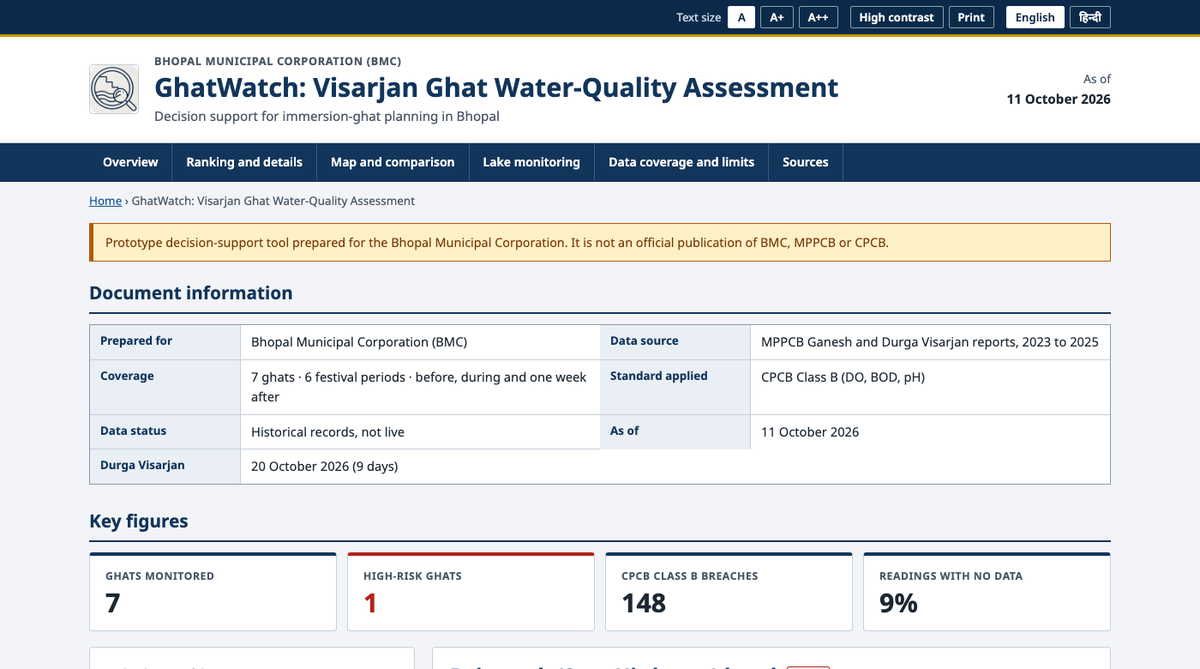
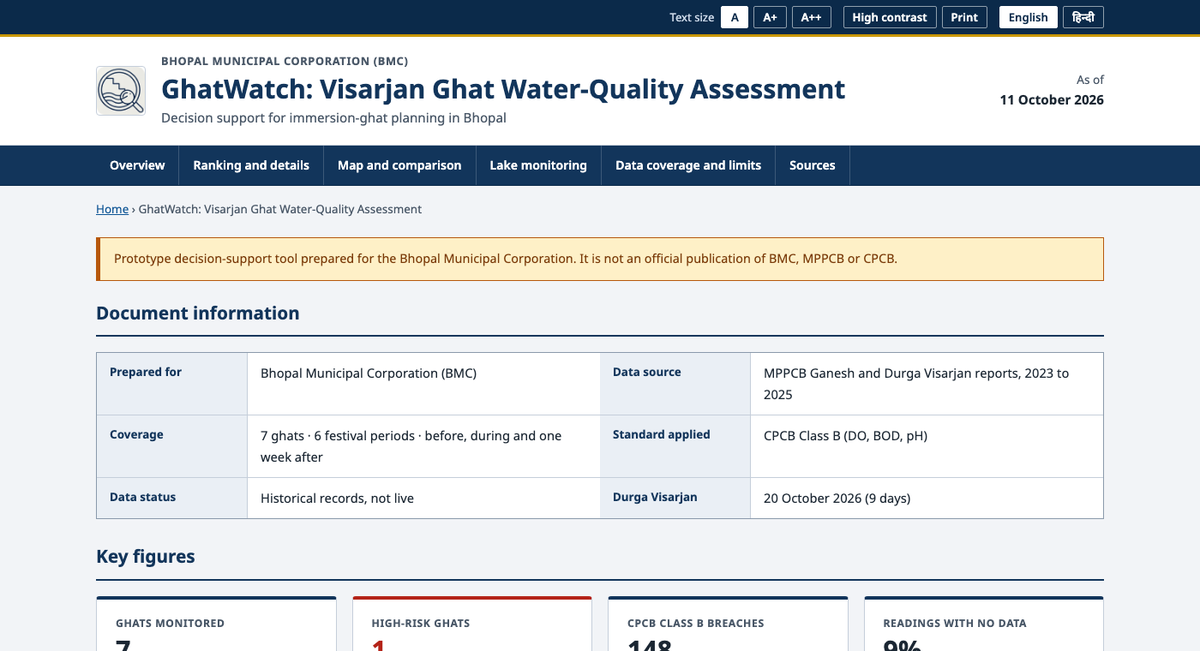
Simpler, airier layout; credited reference photos of the ghats' lakes
- Reference photo of the Upper or Lower Lake for ghats on them (Wikimedia Commons, CC BY-SA 4.0,
  resized, credited with source and licence links), captioned as a photo of the lake and not of the
  ghat; ghats on other water bodies show a plain note. A Commons file titled "Shahpura" is Shahpura in
  Rajasthan, so it was not used.
- Simpler: shorter ranking lines, the full lake table and the weekly update folded away (opened by the
  navigation link), one date instead of two in the header; more generous spacing throughout.
- README screenshots re-captured (15) and the README updated with the photos and credits.

diff --git a/public/app.js b/public/app.js
@@ -69,7 +69,6 @@ function siteHeader() {
         [t("hdr.coverage"), t("hdr.coverage.v", { n: OVERVIEW.metrics.ghats, p: periods.length })],
         [t("hdr.standard"), t("hdr.standard.v")],
         [t("hdr.status"), mock ? t("hdr.strip.demo").split(":")[0] : t("hdr.status.v")],
-        [t("hdr.asof"), asOf],
         ...(OVERVIEW.days_left != null ? [[t("hdr.event"), OVERVIEW.days_left === 0 ? t("hdr.event.today") : OVERVIEW.days_left === 1 ? t("hdr.event.one") : t("hdr.event.v", { n: OVERVIEW.days_left })]] : []),
     ].map(([k, v]) => `<div><dt>${esc(k)}</dt><dd>${esc(v)}</dd></div>`).join("");
     return `<a class="skip" href="#main">${esc(t("gov.skip"))}</a>
@@ -203,6 +202,18 @@ function briefCard(d) {
         <p class="note" style="margin-top:8px">${esc(t("b.note"))}</p></div>`;
 }
 
+/** Reference photo of the ghat's lake, with its licence credit; or a plain note when no openly licensed photo exists. */
+function photoCard(d, row) {
+    const ph = d.photo;
+    if (!ph) return `<p class="note photo-none">${esc(t("photo.none"))}</p>`;
+    const body = state.lang === "hi" ? ph.body_hi : ph.body_en;
+    return `<figure class="card photo"><img src="${esc(ph.image)}" alt="${esc(body)}" width="1200" height="700" loading="lazy">
+        <figcaption><p>${esc(t("photo.note", { body }))}</p>
+        <p class="credit">${esc(t("photo.credit", { author: ph.author, license: ph.license }))} ·
+            <a href="${esc(ph.source_url)}" target="_blank" rel="noopener noreferrer">${esc(t("photo.src"))}</a> ·
+            <a href="${esc(ph.license_url)}" target="_blank" rel="noopener noreferrer">${esc(t("photo.lic"))}</a></p></figcaption></figure>`;
+}
+
 function detail(d) {
     const s = d.summary, lim = OVERVIEW.limits, brief = d.brief[state.lang], row = rowById(d.id);
     const place = [d.water_body, d.confidence && d.confidence !== "high" ? `match: ${d.confidence}` : ""].filter(Boolean).join(" · ");
@@ -213,6 +224,7 @@ function detail(d) {
             ${s.no_data ? `<div class="callout">${md(t("d.missing", { n: s.no_data, total: s.readings }))}</div>` : ""}
             ${s.floor_applied ? `<div class="callout info">${esc(t("d.floor", { m: OVERVIEW.weights.medium_at }))}</div>` : ""}</div>
             ${ring(s.risk_score, s.risk_level)}</div>
+        ${photoCard(d, row)}
         ${latestTiles(d)}
         ${lakesCard(d)}
         <div class="two" style="margin-top:18px"><div class="card why" style="margin:0"><h3>${esc(t("sec.why"))}</h3>${list(brief.findings)}</div>
@@ -278,9 +290,9 @@ function lakeDataTable() {
 function lakeDataSection() {
     if (!OVERVIEW.lakes.stations.length) return "";
     const tabs = ["do", "ph", "bod3"].map((p) => `<button class="chip" data-lakeparam="${p}" aria-pressed="${state.lakeParam === p}">${esc(t("lakedata." + p))}</button>`).join("");
-    return `<div class="card" id="lakes" style="margin-top:28px"><h2>${esc(t("sec.lakedata"))}</h2><p class="note" style="margin:4px 0 6px">${esc(t("lakedata.help"))}</p>
+    return `<details class="fold" id="lakes"><summary>${esc(t("sec.lakedata"))}</summary><div><p class="note" style="margin:0 0 8px">${esc(t("lakedata.help"))}</p>
         <div class="chips" role="group">${tabs}</div><div id="lakedata">${lakeDataTable()}</div>
-        <p class="note" style="margin-top:8px">${esc(t("lakes.bodnote"))}</p></div>`;
+        <p class="note" style="margin-top:10px">${esc(t("lakes.bodnote"))}</p></div></details>`;
 }
 
 function weeklySection() {
@@ -288,10 +300,9 @@ function weeklySection() {
     const status = a.blocked_demo ? t("weekly.demo") : a.enabled && a.channels.length ? t("weekly.on", { ch: a.channels.join(", ") }) : t("weekly.off");
     const box = (code, title) => `<div class="caption-box" lang="${code}"><div class="cap-head"><b>${title}</b>
         <button class="copy" data-copy="${code}">${esc(t("weekly.copy"))}</button></div><pre>${esc(w["caption_" + code])}</pre></div>`;
-    return `<div class="card" style="margin-top:28px"><h2>${esc(t("weekly.title"))}</h2>
-        <p class="note" style="margin:4px 0 12px">${esc(t("weekly.lede"))}</p>
+    return `<details class="fold" id="weekly"><summary>${esc(t("weekly.fold"))}</summary><div><p class="note" style="margin:0 0 12px">${esc(t("weekly.lede"))}</p>
         <div class="two" style="margin:0">${box("en", "English")}${box("hi", "हिन्दी")}</div>
-        <p class="note" style="margin-top:10px"><b>${esc(status)}</b></p></div>`;
+        <p class="note" style="margin-top:12px"><b>${esc(status)}</b></p></div></details>`;
 }
 
 function sourcesSection() {
@@ -454,6 +465,7 @@ function render() {
             <a href="https://github.com/priyanxs/ghatwatch" target="_blank" rel="noopener noreferrer">${esc(t("foot.code"))}</a><a href="#top">${esc(t("foot.top"))}</a></div>
             <p>${esc(t("foot.updated", { d: new Date(OVERVIEW.as_of + "T00:00:00").toLocaleDateString(state.lang === "hi" ? "hi-IN" : "en-IN", { day: "numeric", month: "long", year: "numeric" }) }))}</p></div></footer>`;
     document.querySelectorAll("[data-lang]").forEach((b) => (b.onclick = () => { state.lang = b.dataset.lang; localStorage.setItem("gw-lang", state.lang); render(); }));
+    document.querySelectorAll("[data-nav]").forEach((a) => (a.onclick = () => { const el = document.getElementById(a.dataset.nav); if (el && el.tagName === "DETAILS") el.open = true; }));
     document.querySelectorAll("[data-size]").forEach((b) => (b.onclick = () => { state.size = b.dataset.size; localStorage.setItem("gw-size", state.size); applyPrefs(); render(); }));
     $("#hc-toggle").onclick = () => { state.contrast = !state.contrast; localStorage.setItem("gw-contrast", state.contrast ? "1" : "0"); applyPrefs(); render(); };
     $("#print-btn").onclick = () => window.print();

diff --git a/public/style.css b/public/style.css
@@ -227,3 +227,28 @@ footer.site a { color: #fff; font-size: .86rem; }
     .docinfo > div:last-child:nth-child(odd) { grid-column: 1 / -1; border-bottom: 0; }
 }
 body.hc .nav a { color: #fff; } body.hc .nav a:hover, body.hc .nav a:focus-visible { background: #fff; color: #000; }
+
+/* ---------------------------------------------------------------- simpler, airier layout */
+body { line-height: 1.7; }
+.wrap { padding: 0 32px; }
+.card { padding: 24px 28px; } .card + .card { margin-top: 24px; }
+.section-title, .heading { margin: 48px 0 18px; padding-bottom: 8px; }
+.grid { gap: 32px; margin-top: 32px; } .two { gap: 24px; } .stats { gap: 18px; } .stat { padding: 18px 22px; }
+.ghats { gap: 12px; } .ghat { padding: 15px 17px; row-gap: 6px; } .ghat .detail { margin-top: 2px; }
+.chips { margin: 16px 0 14px; } .needs { margin-top: 16px; } .callout { margin-top: 18px; padding: 13px 17px; }
+.tiles { gap: 14px; margin-top: 16px; } .tile { padding: 13px 15px; } .charts { gap: 18px; margin-top: 10px; } .briefs { gap: 22px; margin-top: 16px; }
+.brief { padding: 6px 20px 16px; } .card ul { padding-left: 22px; } .card li { margin: 8px 0; }
+th, td { padding: 10px 13px; } .docinfo dt, .docinfo dd { padding: 11px 15px; } .docinfo { margin-top: 16px; }
+.top-card { gap: 24px; } .verdict { margin-top: 12px; } .rankline { margin-top: 6px; }
+.proto { margin-top: 16px; padding: 12px 16px; } .crumbs { padding-top: 16px; padding-bottom: 6px; }
+details { margin-top: 18px; } summary { padding: 15px 20px; } details > div { padding: 2px 20px 20px; }
+footer.site { margin-top: 56px; } footer.site .wrap { padding-top: 30px; padding-bottom: 34px; }
+.fold { background: var(--card); border: 1px solid var(--line); border-radius: 4px; margin-top: 28px; }
+.fold > summary { font-size: 1.05rem; padding: 18px 24px; } .fold > div { padding: 4px 24px 24px; }
+.card.photo { padding: 0; overflow: hidden; margin: 24px 0 0; }
+.photo img { display: block; width: 100%; height: auto; max-height: 340px; object-fit: cover; background: var(--soft); }
+.photo figcaption { padding: 14px 22px 16px; font-size: .84rem; color: var(--muted); border-top: 1px solid var(--line); }
+.photo figcaption p { margin: 0; } .photo .credit { margin-top: 6px; font-size: .78rem; }
+.photo-none { margin: 18px 2px 0; font-style: italic; }
+@media (max-width: 720px) { .wrap { padding: 0 16px; } .card { padding: 20px 18px; } .section-title, .heading { margin-top: 40px; } .fold > summary { padding: 16px 18px; } .fold > div { padding: 4px 18px 20px; } }
+@media print { .fold > div, details > div { display: block; } .photo img { max-height: 220px; } }

diff --git a/utils/i18n.py b/utils/i18n.py
@@ -104,8 +104,6 @@ STRINGS: dict[str, dict[str, str]] = {
                  "hi": "यह घाट लोड नहीं हो सका ({e})। कृपया पुनः प्रयास करें।"},
     "m.breaches.help": {"en": "DO below 5 mg/L, BOD above 3 mg/L or pH outside 6.5 to 8.5, all periods.",
                         "hi": "सभी अवधियों में DO 5 mg/L से कम, BOD 3 mg/L से अधिक या pH 6.5 से 8.5 के बाहर।"},
-    "r.line": {"en": "DO below limit {do} of {dt} · BOD above limit {bod} of {bt} · pH out of range {ph} of {pt} · {gap}% data missing",
-               "hi": "DO सीमा से कम {do}/{dt} · BOD सीमा से अधिक {bod}/{bt} · pH सीमा के बाहर {ph}/{pt} · {gap}% डेटा अनुपलब्ध"},
     "d.limit": {"en": "CPCB Class B limit check  ·  DO ≥ {do} mg/L  ·  BOD ≤ {bod} mg/L  ·  pH {phmin} to {phmax}",
                 "hi": "CPCB श्रेणी-B सीमा जाँच  ·  DO ≥ {do} mg/L  ·  BOD ≤ {bod} mg/L  ·  pH {phmin} से {phmax}"},
     "d.how.body": {
@@ -229,6 +227,16 @@ STRINGS: dict[str, dict[str, str]] = {
     "foot.code": {"en": "Source code (MIT licence)", "hi": "स्रोत कोड (MIT लाइसेंस)"},
     "foot.top": {"en": "Back to top", "hi": "ऊपर जाएँ"},
     "loading": {"en": "Loading…", "hi": "लोड हो रहा है…"},
+    "r.line": {"en": "DO low {do}/{dt} · BOD high {bod}/{bt} · pH off {ph}/{pt} · {gap}% missing",
+               "hi": "DO कम {do}/{dt} · BOD अधिक {bod}/{bt} · pH बाहर {ph}/{pt} · {gap}% अनुपलब्ध"},
+    "photo.note": {"en": "Reference photo of the {body}, the water body this ghat is on. It is not a photo of this specific ghat and does not show current conditions.",
+                   "hi": "{body} की संदर्भ तस्वीर, जिस जलाशय पर यह घाट है। यह इस विशेष घाट की तस्वीर नहीं है और वर्तमान स्थिति नहीं दिखाती।"},
+    "photo.credit": {"en": "Photo: {author} · {license} · via Wikimedia Commons (resized)", "hi": "फ़ोटो: {author} · {license} · Wikimedia Commons से (आकार बदला गया)"},
+    "photo.src": {"en": "Source page", "hi": "स्रोत पृष्ठ"},
+    "photo.lic": {"en": "Licence", "hi": "लाइसेंस"},
+    "photo.none": {"en": "No openly licensed photo of this ghat or its water body was found, so none is shown.",
+                   "hi": "इस घाट या इसके जलाशय की कोई खुले लाइसेंस वाली तस्वीर नहीं मिली, इसलिए कोई तस्वीर नहीं दिखाई गई।"},
+    "weekly.fold": {"en": "Weekly public update (for social media)", "hi": "साप्ताहिक सार्वजनिक अपडेट (सोशल मीडिया के लिए)"},
     # --- value labels
     "lvl.High": {"en": "High", "hi": "उच्च"},
     "lvl.Medium": {"en": "Medium", "hi": "मध्यम"},

diff --git a/utils/photos.py b/utils/photos.py
@@ -1,0 +1,26 @@
+"""Reference photos of the water body a ghat sits on, with their credits.
+
+The readings come with no pictures, and a photo of an individual ghat with an open licence could not be found, so each
+ghat on the Upper or Lower Lake shows an openly licensed photo of *that lake* (from Wikimedia Commons), clearly captioned as
+a reference and not as the ghat itself. Ghats on other water bodies show no photo rather than a wrong one. The catalogue is
+``data/ghat_photos.csv``; the images are in ``public/images/ghats``. Never raises.
+"""
+from __future__ import annotations
+
+from functools import lru_cache
+from pathlib import Path
+
+import pandas as pd
+
+PHOTOS_PATH = Path(__file__).resolve().parent.parent / "data" / "ghat_photos.csv"
+
+
+@lru_cache(maxsize=2)
+def load_photos(path: Path = PHOTOS_PATH) -> dict[str, dict]:
+    """``{lake: {image, body_en, body_hi, author, license, license_url, source_url}}``."""
+    try:
+        df = pd.read_csv(path, dtype=str, keep_default_na=False)
+    except Exception:
+        return {}
+    return {r["lake"]: {k: r[k] for k in ("image", "body_en", "body_hi", "author", "license", "license_url", "source_url")}
+            for r in df.to_dict("records") if r.get("image", "").startswith("/images/")}

diff --git a/api/index.py b/api/index.py
@@ -37,6 +37,7 @@ from utils.clock import today_ist  # noqa: E402
 from utils.data_loader import PHASES, load_data  # noqa: E402
 from utils.lakes import lake_for_water_body, load_lakes, nearest_station  # noqa: E402
 from utils.locations import load_locations  # noqa: E402
+from utils.photos import load_photos  # noqa: E402
 from utils.pdf_generator import build_pdf, hindi_available  # noqa: E402
 from utils import publish as social  # noqa: E402
 from utils.pdf_generator import build_city_pdf  # noqa: E402
@@ -213,6 +214,7 @@ def ghat_detail(ghat: str):
         "rank": summary["rank"],
         "water_body": next((x for x in rows["water_body"] if x), ""),
         "lake": lake_for_water_body(next((x for x in rows["water_body"] if x), "")),
+        "photo": load_photos().get(lake_for_water_body(next((x for x in rows["water_body"] if x), "")) or ""),
         "nearest_station": nearest_station(ghat, [s for s in load_lakes()["stations"] if s["lake"] == lake_for_water_body(next((x for x in rows["water_body"] if x), ""))]),
         "confidence": next((x for x in rows["confidence"] if x), ""),
         "summary": summary,

diff --git a/README.md b/README.md
@@ -42,42 +42,46 @@ The one user is the BMC officer who plans Durga visarjan (20 October 2026) and d
 
 ![Ranking and detail](docs/screenshots/02-ranking-and-detail.png)
 
+**A reference photo of the ghat's lake**, with its licence credit. It is clearly labelled as a photo of the water body, not of the specific ghat, and ghats with no openly licensed photo say so instead of showing a wrong one.
+
+![Reference photo](docs/screenshots/03-reference-photo.png)
+
 **Latest readings against the CPCB limits**, for dissolved oxygen, BOD and pH, before, during and one week after immersion. Green is within the limit, red is a breach, amber is no data.
 
-![Latest readings](docs/screenshots/03-latest-readings.png)
+![Latest readings](docs/screenshots/04-latest-readings.png)
 
 **Plain-language findings and recommended actions**, and trend charts for each parameter with the limit drawn on them. A break in a line means no reading, never "clean".
 
-![Findings and actions](docs/screenshots/04-findings-and-actions.png)
-![Trend charts](docs/screenshots/05-trend-charts.png)
+![Findings and actions](docs/screenshots/05-findings-and-actions.png)
+![Trend charts](docs/screenshots/06-trend-charts.png)
 
 **Map of the ghats**, coloured by risk level (positions are approximate; see [limitations](#limitations-stated-plainly)).
 
-![Map](docs/screenshots/06-map.png)
+![Map](docs/screenshots/07-map.png)
 
 **Compare all ghats:** risk scores, a resource plan (where to send aeration, cleaning and testing), and a period-by-period grid where missing data is hatched.
 
-![Comparison and grid](docs/screenshots/07-comparison-and-grid.png)
+![Comparison and grid](docs/screenshots/08-comparison-and-grid.png)
 
 **Latest data: lake monitoring, April 2025 to March 2026**, shown beside each ghat on the Upper or Lower Lake as context (never scored), plus the full table for every station.
 
-![Lake monitoring](docs/screenshots/08-lake-monitoring.png)
-![Lake data table](docs/screenshots/09-lake-data-table.png)
+![Lake monitoring](docs/screenshots/09-lake-monitoring.png)
+![Lake data table](docs/screenshots/10-lake-data-table.png)
 
 **Honest about gaps:** a "what this data does not cover" panel, built from the data and the guide's caveats.
 
-![What the data does not cover](docs/screenshots/10-what-the-data-does-not-cover.png)
+![What the data does not cover](docs/screenshots/11-what-the-data-does-not-cover.png)
 
 **One-page brief in English and Hindi**, per ghat and for the whole city.
 
-![Brief PDF](docs/screenshots/14-brief-pdf.png)
+![Brief PDF](docs/screenshots/12-brief-pdf.png)
 
 **Fully bilingual, accessible, and responsive:** Hindi interface, high-contrast mode, adjustable text size, and a phone layout.
 
-![Hindi](docs/screenshots/11-hindi.png)
-![High contrast](docs/screenshots/12-high-contrast.png)
+![Hindi](docs/screenshots/13-hindi.png)
+![High contrast](docs/screenshots/14-high-contrast.png)
 
-<img src="docs/screenshots/13-mobile.png" alt="Phone layout" width="300">
+<img src="docs/screenshots/15-mobile.png" alt="Phone layout" width="300">
 
 ## Features
 
@@ -99,10 +103,12 @@ The one user is the BMC officer who plans Durga visarjan (20 October 2026) and d
 | --- | --- |
 | Resource plan | Per ghat: how much it needs **aeration** (low oxygen), **cleaning** (organic waste) and **extra testing** (data gaps). |
 | Map | Real map of Bhopal with risk-coloured markers; click one to open that ghat. |
+| Reference photos | An openly licensed, credited photo of the Upper or Lower Lake for ghats on them; clearly not a photo of the ghat itself. |
 | Period-by-period grid | Every ghat and festival period, with before / during / one week after cells; missing data is hatched. |
 | Latest lake monitoring | Monthly lake data, Apr 2025 to Mar 2026 (the newest in the pack), as context that never changes a score. |
 | Trend and countdown | Better or worse than last year for each ghat, and days left to Durga Visarjan. |
 | Verified totals | The engine reproduces the organisers' own totals: **42 of 116** DO readings below 5 mg/L and **100 of 112** BOD readings above 3 mg/L. |
+| Simple, spacious layout | Generous spacing; secondary material (the full lake table, the weekly update, the score explanation) is folded away until you open it. |
 | Full Hindi interface | One click switches the whole site, including ghat names. |
 | Accessibility | Skip link, text size A / A+ / A++, high-contrast mode, keyboard use, screen-reader labels and a print view. |
 | Weekly public update | A bilingual caption with "how to avoid mistakes" tips; auto-posting is built but **off by default**. |
@@ -152,7 +158,7 @@ One scoring engine feeds the website, the API and the PDFs, so they cannot disag
 
 ```
 api/index.py            FastAPI backend: one Vercel function
-public/                 the website: index.html, style.css, app.js, icon
+public/                 the website: index.html, style.css, app.js, icon, images/ghats (reference photos)
 utils/
   data_loader.py        reads the CSV: BDL / blank codes, periods, phases
   risk_engine.py        CPCB limits, score, resource needs, brief text
@@ -161,6 +167,7 @@ utils/
   locations.py          map positions
   i18n.py               English and Hindi interface text
   pdf_generator.py      one-page PDFs (English + Hindi)
+  photos.py             reference-photo catalogue and credits
   weekly.py, publish.py weekly caption and optional social posting
   sources.py, clock.py  report links; India-time dates
 data/                   readings, lake monitoring, ghat positions (see data/README.md)
@@ -248,6 +255,8 @@ outside scripts, escaped output, a locked-down weekly-post endpoint, and pinned,
 - Only DO, BOD and pH have a Class B limit, so only they are scored. There is no coliform data, and only four metals were tested.
 - The **lake monitoring** covers only the Upper and Lower Lake stations (mostly water-supply intakes, not the ghats), May is blank, and its BOD is the 3-day, 27°C test,
   so it is not judged against the 3 mg/L limit. It never changes a score.
+- **Reference photos** exist only for ghats on the Upper and Lower Lake. None was found for Shahpura Lake, Hathaikheda dam or Malikhedi kund, so those show a note instead.
+  They are photos of the lake, not of the individual ghats, and do not show current conditions. (Wikimedia Commons files titled "Shahpura" turned out to show Shahpura in Rajasthan, so they were not used.)
 - "Rani Kamlapati ghat / Kamla Park kund" may be two places (medium match confidence). Bairagarh and Malikhedi have no Durga 2025 table in the report.
 - Each festival is sampled only three times, so a short spike between samples can be missed.
 - Weekly auto-posting is built but has not been tested against a live account.
@@ -262,6 +271,8 @@ outside scripts, escaped output, a locked-down weekly-post endpoint, and pinned,
 - **Limits:** [CPCB water quality criteria](https://cpcb.gov.in/water-quality-criteria/), Class B.
 - **Lake monitoring:** [Upper and Lower Lake monthly water quality 2025-26](https://xgn.mp.nic.in/File_Upload/MONITORING//Yearly%20Water%20Quality%20Status/2026/July/UPPER%20LAKE-2025-26..pdf),
   read from the copy in the pack, extracted by `scripts/extract_lake_monitoring.py` and checked against the PDF's own averages, maxima and minima.
+- **Photos:** [Upper Lake (Bada Talab)](https://commons.wikimedia.org/wiki/File:Bada_talab(upper_lake)_Bhopal.jpg) and [Lower Lake](https://commons.wikimedia.org/wiki/File:Lower_lake_Bhopal.jpg) by Masterblaster3r,
+  [CC BY-SA 4.0](https://creativecommons.org/licenses/by-sa/4.0), via Wikimedia Commons; resized. Credits are listed in `data/ghat_photos.csv` and shown under each photo.
 - **Map:** © [OpenStreetMap](https://www.openstreetmap.org/copyright) contributors (positions and tiles), rendered with [Leaflet](https://leafletjs.com). Charts by [Plotly](https://plotly.com/javascript/).
 - **Font:** Noto Sans Devanagari (SIL Open Font Licence), bundled so the Hindi PDFs work on a server.
 

diff --git a/data/README.md b/data/README.md
@@ -19,3 +19,5 @@ Replace the file with newer data in the same format to update the site. If it is
 A row without coordinates keeps that ghat off the map.
 
 `lake_monitoring_2025_26.csv` is the pack's monthly lake report (Upper Lake: 4 stations, Lower Lake: Kalighat), April 2025 to March 2026: DO, pH and BOD (3 days, 27°C), one row per station / month / parameter, with the PDF page. It is context only and is not scored.
+
+`ghat_photos.csv` lists the reference photos (one per lake: image path, the lake's name in English and Hindi, author, licence and source link). The images are in `public/images/ghats`. They are photos of the lake, not of the individual ghat, and show only for ghats on that lake.
